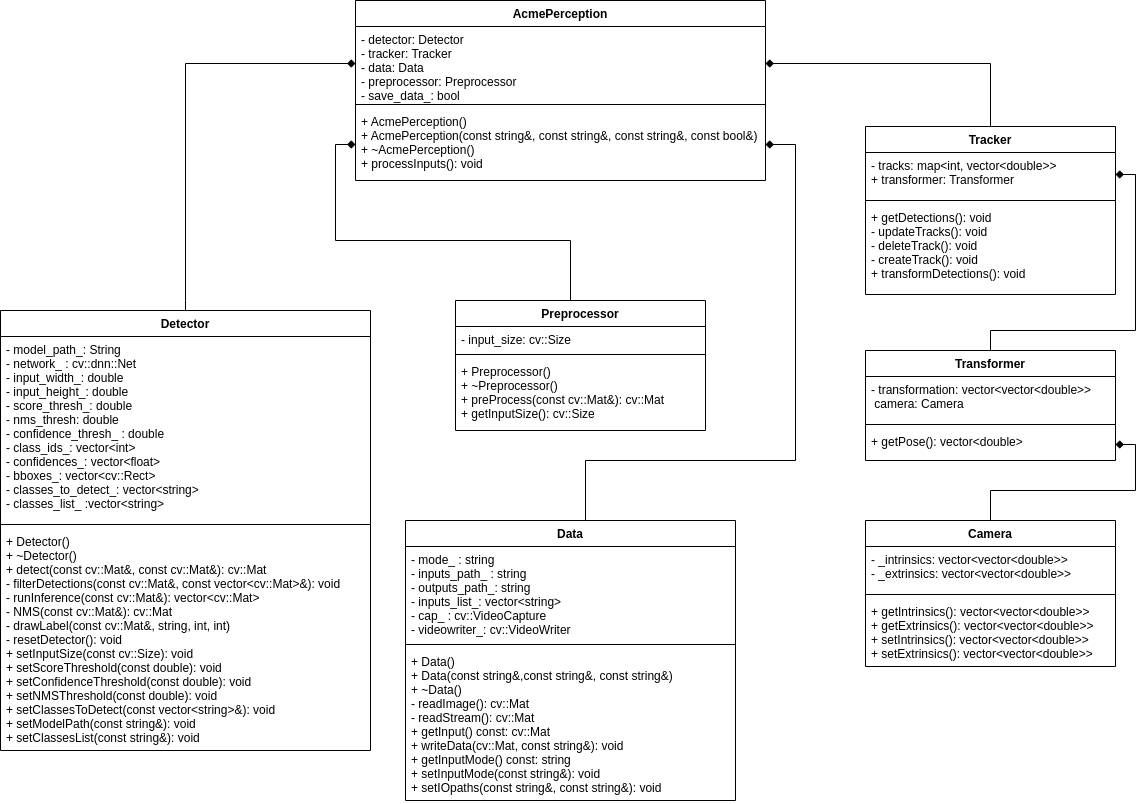
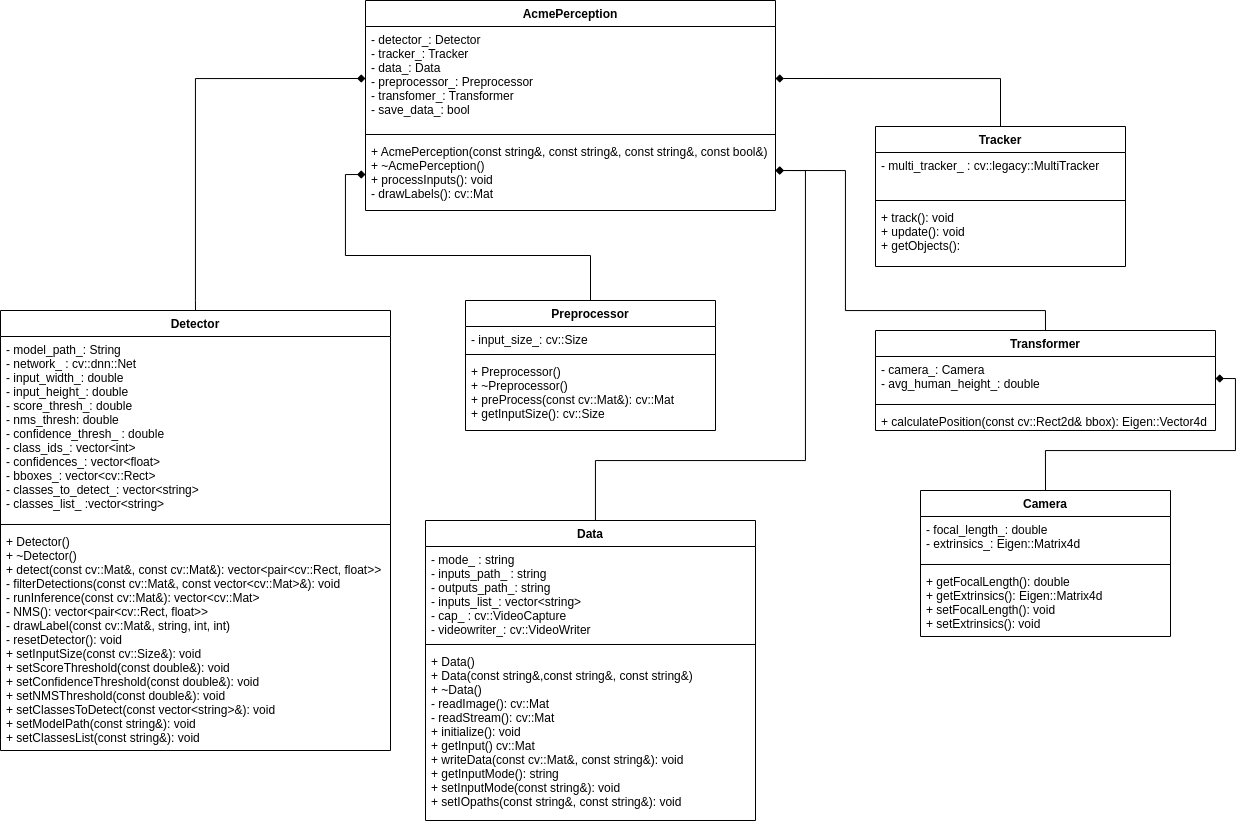
[2.2] Updated UML Class Diagram
1. Updated Tracker class
2. Updated Transformer class
3. Updated Camera class
4. Updated relationship between AcmePerception and Transformer
5. Tracker no longer uses Transformer

diff --git a/include/tracker.hpp b/include/tracker.hpp
@@ -1,0 +1,70 @@
+/******************************************************************************
+ * MIT License
+
+Copyright (c) 2022 Nitesh Jha, Tanuj Thakkar
+
+Permission is hereby granted, free of charge, to any person obtaining a copy
+of this software and associated documentation files (the "Software"), to deal
+in the Software without restriction, including without limitation the rights
+to use, copy, modify, merge, publish, distribute, sublicense, and/or sell
+copies of the Software, and to permit persons to whom the Software is
+furnished to do so, subject to the following conditions:
+
+The above copyright notice and this permission notice shall be included in all
+copies or substantial portions of the Software.
+
+THE SOFTWARE IS PROVIDED "AS IS", WITHOUT WARRANTY OF ANY KIND, EXPRESS OR
+IMPLIED, INCLUDING BUT NOT LIMITED TO THE WARRANTIES OF MERCHANTABILITY,
+FITNESS FOR A PARTICULAR PURPOSE AND NONINFRINGEMENT. IN NO EVENT SHALL THE
+AUTHORS OR COPYRIGHT HOLDERS BE LIABLE FOR ANY CLAIM, DAMAGES OR OTHER
+LIABILITY, WHETHER IN AN ACTION OF CONTRACT, TORT OR OTHERWISE, ARISING FROM,
+OUT OF OR IN CONNECTION WITH THE SOFTWARE OR THE USE OR OTHER DEALINGS IN THE
+SOFTWARE.
+* *******************************************************************************
+*/
+
+/**
+ * @copyright Copyright (c) 2022 Nitesh Jha, Tanuj Thakkar
+ * @file acme_perception.hpp
+ * @author Tanuj Thakkar (Driver), Nitesh Jha (Navigator)
+ * @brief header file for Tracker class
+ * @version 0.1
+ * @date 2022-10-26
+ *
+ *
+ */
+
+#ifndef INCLUDE_TRACKER_HPP_
+#define INCLUDE_TRACKER_HPP_
+
+#pragma once
+
+#include <vector>
+
+#include <opencv2/core/cvstd_wrapper.hpp>
+#include <opencv2/core/types.hpp>
+#include <opencv2/opencv.hpp>
+#include <opencv2/tracking.hpp>
+#include <opencv2/tracking/tracking_legacy.hpp>
+
+namespace Acme {
+
+class Tracker {
+ public:
+  Tracker();  // Default constructor
+
+  ~Tracker();  // Default destructor
+
+  void track(
+      const cv::Mat& frame,
+      const std::vector<cv::Rect2d>& bboxes);  // Method to track detections
+  void update(const cv::Mat& frame);
+  std::vector<cv::Rect2d> getObjects();
+
+ private:
+  cv::legacy::MultiTracker multi_tracker_;
+};
+
+}  // namespace Acme
+
+#endif  // INCLUDE_TRACKER_HPP_

diff --git a/app/tracker.cpp b/app/tracker.cpp
@@ -1,0 +1,58 @@
+/******************************************************************************
+ * MIT License
+
+Copyright (c) 2022 Nitesh Jha, Tanuj Thakkar
+
+Permission is hereby granted, free of charge, to any person obtaining a copy
+of this software and associated documentation files (the "Software"), to deal
+in the Software without restriction, including without limitation the rights
+to use, copy, modify, merge, publish, distribute, sublicense, and/or sell
+copies of the Software, and to permit persons to whom the Software is
+furnished to do so, subject to the following conditions:
+
+The above copyright notice and this permission notice shall be included in all
+copies or substantial portions of the Software.
+
+THE SOFTWARE IS PROVIDED "AS IS", WITHOUT WARRANTY OF ANY KIND, EXPRESS OR
+IMPLIED, INCLUDING BUT NOT LIMITED TO THE WARRANTIES OF MERCHANTABILITY,
+FITNESS FOR A PARTICULAR PURPOSE AND NONINFRINGEMENT. IN NO EVENT SHALL THE
+AUTHORS OR COPYRIGHT HOLDERS BE LIABLE FOR ANY CLAIM, DAMAGES OR OTHER
+LIABILITY, WHETHER IN AN ACTION OF CONTRACT, TORT OR OTHERWISE, ARISING FROM,
+OUT OF OR IN CONNECTION WITH THE SOFTWARE OR THE USE OR OTHER DEALINGS IN THE
+SOFTWARE.
+* *******************************************************************************
+*/
+
+/**
+ * @copyright Copyright (c) 2022 Nitesh Jha, Tanuj Thakkar
+ * @file acme_perception.hpp
+ * @author Tanuj Thakkar (Driver), Nitesh Jha (Navigator)
+ * @brief header file for Tracker class
+ * @version 0.1
+ * @date 2022-10-26
+ *
+ *
+ */
+
+#include <tracker.hpp>
+
+namespace Acme {
+
+Tracker::Tracker() {}
+
+Tracker::~Tracker() { multi_tracker_.clear(); }
+
+void Tracker::track(const cv::Mat& frame,
+                    const std::vector<cv::Rect2d>& bboxes) {
+  multi_tracker_.clear();  // Clearing any present trackers
+  for (auto bbox : bboxes) {
+    multi_tracker_.add(cv::legacy::TrackerKCF::create(), frame, bbox);
+  }
+}
+
+void Tracker::update(const cv::Mat& frame) { multi_tracker_.update(frame); }
+
+std::vector<cv::Rect2d> Tracker::getObjects() {
+  return multi_tracker_.getObjects();
+}
+}  // namespace Acme
